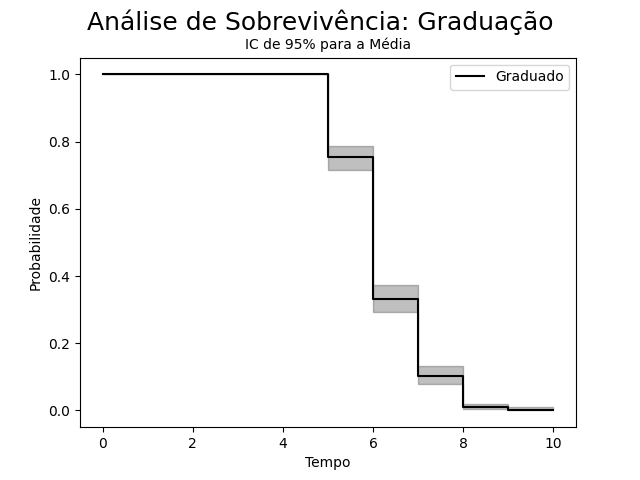
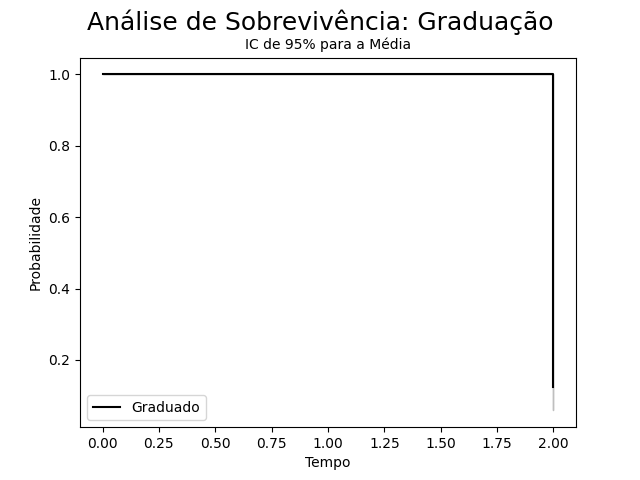
testes

diff --git a/simulation.py b/simulation.py
@@ -11,7 +11,7 @@ def sobrevivencia(time, event_observed, label, color, title):
     for i in range(len(time)):
         kmf.fit(time[i], event_observed[i], label=label[i])
         # kmf.plot_survival_function(color=color[i])
-        kmf.plot_survival_function(linestyle=linestyles[i], color = "black")
+        kmf.plot_survival_function(linestyle=linestyles[i], color="black")
 
     plt.xlabel('Tempo')
     plt.ylabel('Probabilidade')
@@ -44,15 +44,11 @@ def Simu(quantAlunos, matriz):
     event_observedT = np.array([])
     event_observedR = np.array([])
 
-    event_observedGTeste = []
-    timeTeste = []
-
     for i in range(quantAlunos):
         a = Student(i, matriz)
         list(a.gen)
         arr = a.history
         anos = a.nb_state
-        k = 0
 
         tempo = np.arange(0, anos, 1)
         time = np.concatenate((time, tempo))
@@ -71,9 +67,6 @@ def Simu(quantAlunos, matriz):
             k = arr.index("G")
             tempo_ate_graduado.append(k)
             estados[k] = 1
-            # Teste
-            timeTeste.append(k)
-            event_observedGTeste.append(1)
         event_observedG = np.concatenate((event_observedG, estados))
 
         # Trancado
@@ -120,12 +113,11 @@ def Simu(quantAlunos, matriz):
     # print(g)
     # print(tempo_ate_graduado)
 
-    # return time, event_observedE, event_observedG, event_observedR, event_observedT
-    return timeTeste, time, event_observedE, event_observedGTeste, event_observedR, event_observedT
+    return time, event_observedE, event_observedG, event_observedR, event_observedT
 
 
 
-quantAlunos = 1000
+quantAlunos = 100
 
 
 # # Simulação por Gênero
@@ -160,12 +152,38 @@ quantAlunos = 1000
 
 
 # Simulação Geral
-# time, event_observedE, event_observedG, event_observedR, event_observedT = Simu(quantAlunos, 'matrix/matrixF.csv')
-timeTeste, time, event_observedE, event_observedG, event_observedR, event_observedT = Simu(quantAlunos, 'matrix/matrixF.csv')
+time, event_observedE, event_observedG, event_observedR, event_observedT = Simu(quantAlunos, 'matrix/matrixtest.csv')
 
 sobrevivencia([time], [event_observedE], ['Evadido'], ["red"], "Evasão")
-sobrevivencia([timeTeste], [event_observedG], ['Graduado'], ["green"], "Graduação")
+sobrevivencia([time], [event_observedG], ['Graduado'], ["green"], "Graduação")
 sobrevivencia([time], [event_observedR], ['Retido'], ["orange"], "Retenção")
 sobrevivencia([time], [event_observedT], ['Trancado'], ["grey"], "Trancado")
 
+
+
+
+
+
+
+
+
+
+# Para depois
+# Teste quantidade de alunos por ano
+# list_alunos = []
+# list_quant_anos = []
+# quantAlunos = 10
+#
+# for i in range(quantAlunos):
+#     a = Student(i, "matrix/matrixtest.csv")
+#     list_alunos.append(a)
+#
+#     for i in range(3):
+#         a.get_next_state()
+#         list_alunos.append()
+#
+#
+# print(list_quant_anos[0])
+# print(list_quant_anos[1])
+# print(list_quant_anos[2])
 

diff --git a/generate_mc.py b/generate_mc.py
@@ -5,9 +5,10 @@ from markov_diagram import Diagram
 from pydtmc import MarkovChain, plot_graph, plot_walk
 
 # Alterar aqui parametros para gerar matriz
-nomeArquivo = "matrix/matrixF.csv"
+nomeArquivo = "matrix/matrixtest.csv"
 taxaRetencao = 1.0
 taxaEvasao = 1.0
+taxaEvasaoA1 = 0.1
 taxaTrancar = 1.0
 taxaEvasaoR = 1.0
 taxaTrancarR = 1.0
@@ -37,8 +38,8 @@ A4toA4R = 0.15 * taxaRetencao
 A5toA5R = 0.2 * taxaRetencao
 
 # Evadir
-A1toE = 0.12 * taxaEvasao
-A1RtoE = A1toE * taxaEvasaoR * taxaProporcaoEvasao
+A1toE = 0.12 * taxaEvasao * taxaEvasaoA1
+A1RtoE = A1toE * taxaEvasaoR * taxaProporcaoEvasao * taxaEvasaoA1
 A2toE = 0.1 * taxaEvasao
 A2RtoE = A2toE * taxaEvasaoR * taxaProporcaoEvasao
 A3toE = 0.07 * taxaEvasao
@@ -118,6 +119,16 @@ p = [[A1T, A1toA2, 0.0, 0.0, 0.0, A1toA1R, 0.0, 0.0, 0.0, 0.0, 0.0, 0.0, 0.0, A1
      [0.0, 0.0, 0.0, 0.0, 0.0, 0.0, 0.0, 0.0, 0.0, 0.0, 0.0, 0.0, 1.0, 0.0],
      [0.0, 0.0, 0.0, 0.0, 0.0, 0.0, 0.0, 0.0, 0.0, 0.0, 0.0, 0.0, 0.0, 1.0]]
 
+
+# Simples para testes
+states = ['A1', 'A2', 'G', 'E']
+p = [[0.0, 0.7, 0.0, 0.3],
+     [0.0, 0.0, 0.8, 0.2],
+     [0.0, 0.0, 1.0, 0.0],
+     [0.0, 0.0, 0.0, 1.0]]
+
+
+
 # states = ['Y1', 'Y2', 'Y3', 'Y4', 'I', 'G', 'W']
 # state = np.array([[1, 0, 0, 0, 0, 0, 0]])
 # p = [[0.057, 0.31, 0.0, 0.0, 0.603, 0.0, 0.03],
@@ -168,13 +179,20 @@ def transition_matrix(transitions):
     return M
 
 
+def aplicar_parametros(p):
+    p[:, 0] = 1
+
+    return p
+
+
+
 # estados transicionando
 # t = [1,1,2,6,8,5,5,7,8,8,1,1,4,5,5,0,0,0,1,1,4,4,5,1,3,3,4,5,4,1,1]
 # states = np.unique(t)
 # p = transition_matrix(t)
 
 
-p = np.round(p, 4)
+# p = np.round(p, 4)
 generate_csv_and_diagram(nomeArquivo, states, p)
 
 
